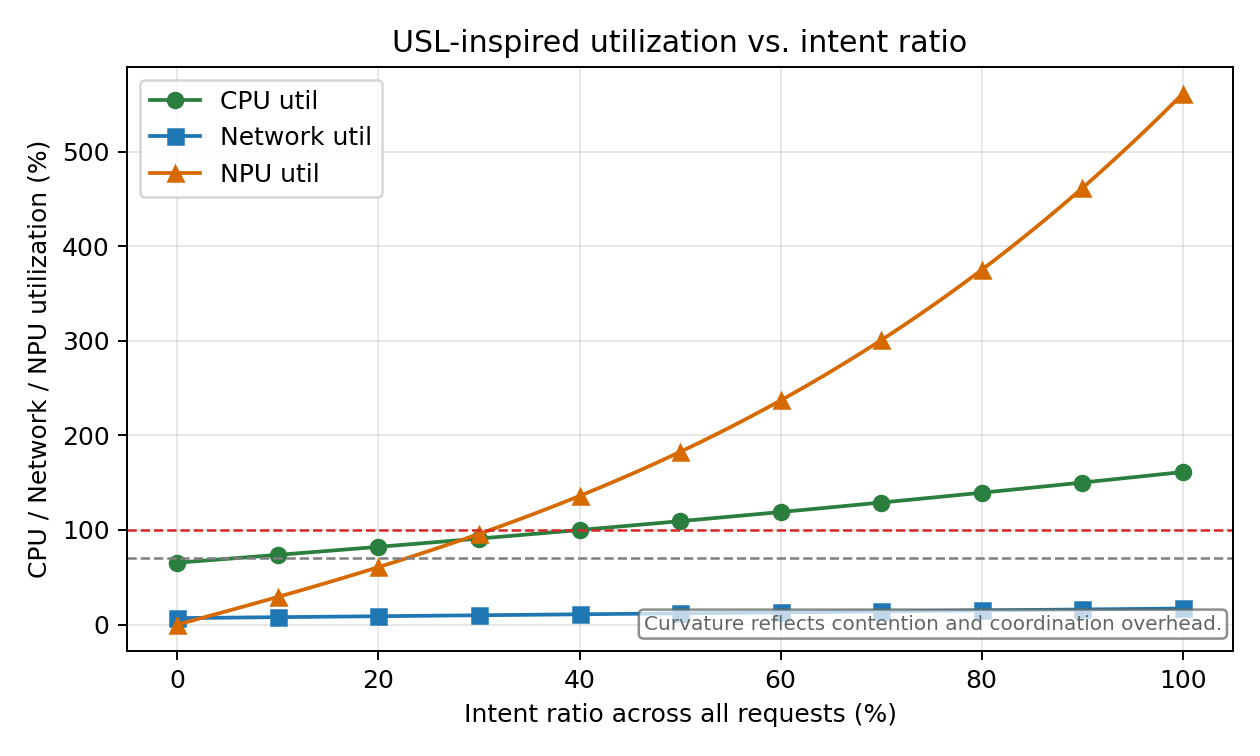
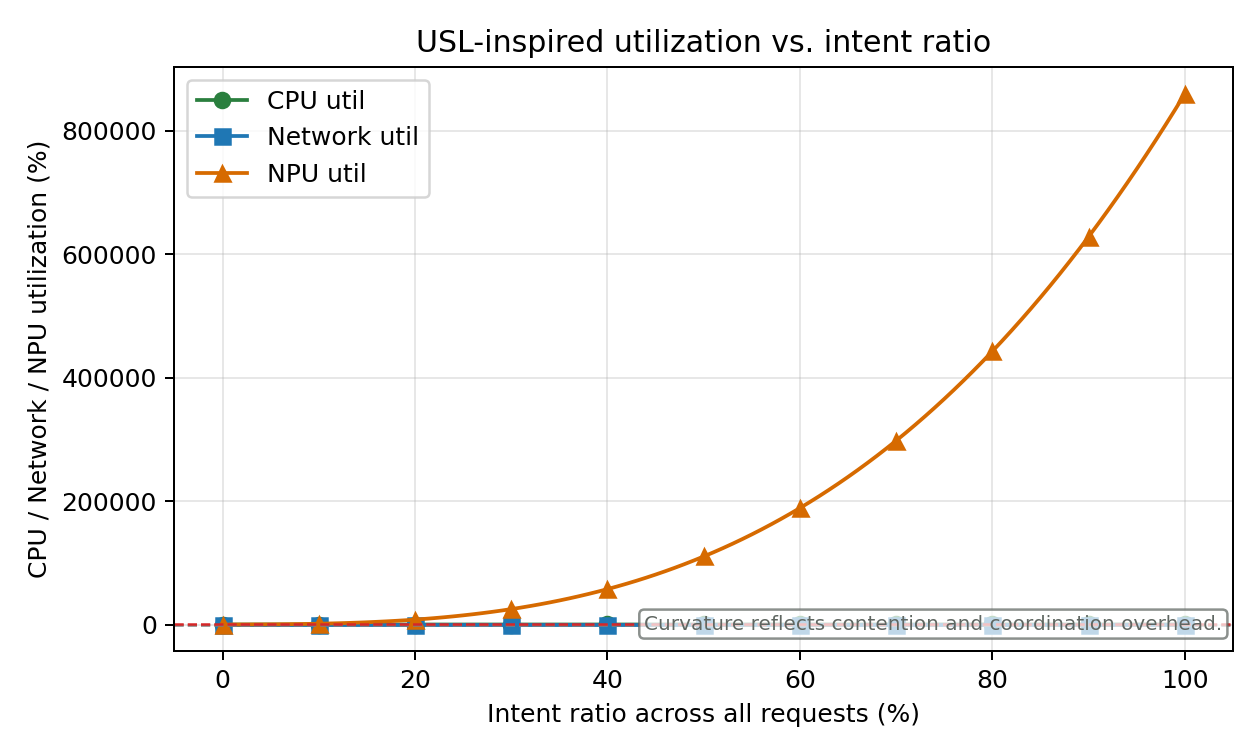
Use Medium Prompt Qwen3 benchmark defaults

diff --git a/webapp/dist/i18n.js b/webapp/dist/i18n.js
@@ -7,7 +7,7 @@ export const I18N = {
         eventRates: "Event Rates",
         cluster: "Cluster",
         referenceProfile: "Reference profile",
-        qwen3SourceNote: "Source: GPUStack reports 15,040 total tokens/s for Qwen3-30B-A3B short-prompt serving on Ascend 910B; vLLM-Ascend recommends TP >= 4 for 32 GB NPU cards.",
+        qwen3SourceNote: "Source: GPUStack reports 15,591.71 total tokens/s for Qwen3-30B-A3B Medium Prompt serving on Ascend 910B, with Mean TPOT 194.54 ms; vLLM-Ascend recommends TP >= 4 for 32 GB NPU cards.",
         sourceLink: "GPUStack benchmark",
         vllmSourceLink: "vLLM-Ascend docs",
         agentCost: "Agent Cost",
@@ -87,9 +87,9 @@ export const I18N = {
         qwen3NpuCountTip: "Configured NPUs available for Qwen3 serving. Utilization is calculated against this fixed cluster size.",
         loadBandNote: "Nonlinear overhead uses a USL-inspired curve: effective load = raw load x (1 + 0.05 x raw load + 0.10 x raw load squared).",
         qwen3InvocationRatioTip: "Percentage of intent requests that need Qwen3-30B-A3B. The rest use lightweight intent parsing and tool selection.",
-        qwen3InputTokensTip: "Input tokens per complex intent request. The benchmark-derived default is 128.",
-        qwen3OutputTokensTip: "Output tokens per complex intent request. The benchmark-derived default is 4.",
-        qwen3TokenCapacityTip: "Reference Qwen3 serving capacity. GPUStack reports 15,040 total tokens/s for the optimized short-prompt Ascend 910B benchmark.",
+        qwen3InputTokensTip: "Input tokens per complex intent request. The GPUStack Medium Prompt benchmark default is 2,000.",
+        qwen3OutputTokensTip: "Output tokens per complex intent request. The GPUStack Medium Prompt benchmark default is 100.",
+        qwen3TokenCapacityTip: "Reference Qwen3 serving capacity. GPUStack reports 15,591.71 total tokens/s for the optimized Medium Prompt Ascend 910B benchmark.",
         qwen3TensorParallelTip: "NPUs required for one Qwen3 replica. vLLM-Ascend recommends TP >= 4 for 32 GB NPU cards.",
         nonIntentCpuCostTip: "CPU-ms means one CPU core occupied for one millisecond. 0.3 CPU-ms is 0.3 ms on one core, or equivalent parallel CPU work.",
         intentCpuCostTip: "CPU-side agent work for intent parsing, constraints, planning, and tool-wrapper handling outside Qwen3 inference.",
@@ -122,7 +122,7 @@ export const I18N = {
         eventRates: "事件速率",
         cluster: "集群",
         referenceProfile: "参考配置",
-        qwen3SourceNote: "来源：GPUStack 报告 Qwen3-30B-A3B 在 Ascend 910B 短提示服务下达到 15,040 total tokens/s；vLLM-Ascend 建议 32 GB NPU 卡使用 TP >= 4。",
+        qwen3SourceNote: "来源：GPUStack 报告 Qwen3-30B-A3B 在 Ascend 910B Medium Prompt 服务下达到 15,591.71 total tokens/s，Mean TPOT 为 194.54 ms；vLLM-Ascend 建议 32 GB NPU 卡使用 TP >= 4。",
         sourceLink: "GPUStack 基准",
         vllmSourceLink: "vLLM-Ascend 文档",
         agentCost: "Agent 成本",
@@ -202,9 +202,9 @@ export const I18N = {
         qwen3NpuCountTip: "可用于 Qwen3 服务的 NPU 数量。利用率基于该固定集群规模计算。",
         loadBandNote: "非线性开销采用基于 USL 的曲线：有效负载 = 原始负载 x (1 + 0.05 x 原始负载 + 0.10 x 原始负载平方)。",
         qwen3InvocationRatioTip: "需要调用 Qwen3-30B-A3B 的意图请求比例。其他意图请求使用轻量意图解析和工具选择。",
-        qwen3InputTokensTip: "每个复杂意图请求的输入 token 数。基准默认值为 128。",
-        qwen3OutputTokensTip: "每个复杂意图请求的输出 token 数。基准默认值为 4。",
-        qwen3TokenCapacityTip: "参考 Qwen3 服务能力。GPUStack 在优化后的 Ascend 910B 短提示基准中报告 15,040 total tokens/s。",
+        qwen3InputTokensTip: "每个复杂意图请求的输入 token 数。GPUStack Medium Prompt 基准默认值为 2,000。",
+        qwen3OutputTokensTip: "每个复杂意图请求的输出 token 数。GPUStack Medium Prompt 基准默认值为 100。",
+        qwen3TokenCapacityTip: "参考 Qwen3 服务能力。GPUStack 在优化后的 Ascend 910B Medium Prompt 基准中报告 15,591.71 total tokens/s。",
         qwen3TensorParallelTip: "一个 Qwen3 副本需要的 NPU 数。vLLM-Ascend 建议 32 GB NPU 卡使用 TP >= 4。",
         nonIntentCpuCostTip: "CPU-ms 表示一个 CPU 核占用一毫秒。0.3 CPU-ms 等价于单核 0.3 ms 的计算量。",
         intentCpuCostTip: "意图解析、约束检查、规划和工具封装等 Qwen3 推理之外的 CPU 侧 Agent 工作量。",

diff --git a/webapp/src/i18n.ts b/webapp/src/i18n.ts
@@ -9,7 +9,7 @@ export const I18N: Record<Lang, Record<string, string>> = {
     eventRates: "Event Rates",
     cluster: "Cluster",
     referenceProfile: "Reference profile",
-    qwen3SourceNote: "Source: GPUStack reports 15,040 total tokens/s for Qwen3-30B-A3B short-prompt serving on Ascend 910B; vLLM-Ascend recommends TP >= 4 for 32 GB NPU cards.",
+    qwen3SourceNote: "Source: GPUStack reports 15,591.71 total tokens/s for Qwen3-30B-A3B Medium Prompt serving on Ascend 910B, with Mean TPOT 194.54 ms; vLLM-Ascend recommends TP >= 4 for 32 GB NPU cards.",
     sourceLink: "GPUStack benchmark",
     vllmSourceLink: "vLLM-Ascend docs",
     agentCost: "Agent Cost",
@@ -89,9 +89,9 @@ export const I18N: Record<Lang, Record<string, string>> = {
     qwen3NpuCountTip: "Configured NPUs available for Qwen3 serving. Utilization is calculated against this fixed cluster size.",
     loadBandNote: "Nonlinear overhead uses a USL-inspired curve: effective load = raw load x (1 + 0.05 x raw load + 0.10 x raw load squared).",
     qwen3InvocationRatioTip: "Percentage of intent requests that need Qwen3-30B-A3B. The rest use lightweight intent parsing and tool selection.",
-    qwen3InputTokensTip: "Input tokens per complex intent request. The benchmark-derived default is 128.",
-    qwen3OutputTokensTip: "Output tokens per complex intent request. The benchmark-derived default is 4.",
-    qwen3TokenCapacityTip: "Reference Qwen3 serving capacity. GPUStack reports 15,040 total tokens/s for the optimized short-prompt Ascend 910B benchmark.",
+    qwen3InputTokensTip: "Input tokens per complex intent request. The GPUStack Medium Prompt benchmark default is 2,000.",
+    qwen3OutputTokensTip: "Output tokens per complex intent request. The GPUStack Medium Prompt benchmark default is 100.",
+    qwen3TokenCapacityTip: "Reference Qwen3 serving capacity. GPUStack reports 15,591.71 total tokens/s for the optimized Medium Prompt Ascend 910B benchmark.",
     qwen3TensorParallelTip: "NPUs required for one Qwen3 replica. vLLM-Ascend recommends TP >= 4 for 32 GB NPU cards.",
     nonIntentCpuCostTip: "CPU-ms means one CPU core occupied for one millisecond. 0.3 CPU-ms is 0.3 ms on one core, or equivalent parallel CPU work.",
     intentCpuCostTip: "CPU-side agent work for intent parsing, constraints, planning, and tool-wrapper handling outside Qwen3 inference.",
@@ -124,7 +124,7 @@ export const I18N: Record<Lang, Record<string, string>> = {
     eventRates: "事件速率",
     cluster: "集群",
     referenceProfile: "参考配置",
-    qwen3SourceNote: "来源：GPUStack 报告 Qwen3-30B-A3B 在 Ascend 910B 短提示服务下达到 15,040 total tokens/s；vLLM-Ascend 建议 32 GB NPU 卡使用 TP >= 4。",
+    qwen3SourceNote: "来源：GPUStack 报告 Qwen3-30B-A3B 在 Ascend 910B Medium Prompt 服务下达到 15,591.71 total tokens/s，Mean TPOT 为 194.54 ms；vLLM-Ascend 建议 32 GB NPU 卡使用 TP >= 4。",
     sourceLink: "GPUStack 基准",
     vllmSourceLink: "vLLM-Ascend 文档",
     agentCost: "Agent 成本",
@@ -204,9 +204,9 @@ export const I18N: Record<Lang, Record<string, string>> = {
     qwen3NpuCountTip: "可用于 Qwen3 服务的 NPU 数量。利用率基于该固定集群规模计算。",
     loadBandNote: "非线性开销采用基于 USL 的曲线：有效负载 = 原始负载 x (1 + 0.05 x 原始负载 + 0.10 x 原始负载平方)。",
     qwen3InvocationRatioTip: "需要调用 Qwen3-30B-A3B 的意图请求比例。其他意图请求使用轻量意图解析和工具选择。",
-    qwen3InputTokensTip: "每个复杂意图请求的输入 token 数。基准默认值为 128。",
-    qwen3OutputTokensTip: "每个复杂意图请求的输出 token 数。基准默认值为 4。",
-    qwen3TokenCapacityTip: "参考 Qwen3 服务能力。GPUStack 在优化后的 Ascend 910B 短提示基准中报告 15,040 total tokens/s。",
+    qwen3InputTokensTip: "每个复杂意图请求的输入 token 数。GPUStack Medium Prompt 基准默认值为 2,000。",
+    qwen3OutputTokensTip: "每个复杂意图请求的输出 token 数。GPUStack Medium Prompt 基准默认值为 100。",
+    qwen3TokenCapacityTip: "参考 Qwen3 服务能力。GPUStack 在优化后的 Ascend 910B Medium Prompt 基准中报告 15,591.71 total tokens/s。",
     qwen3TensorParallelTip: "一个 Qwen3 副本需要的 NPU 数。vLLM-Ascend 建议 32 GB NPU 卡使用 TP >= 4。",
     nonIntentCpuCostTip: "CPU-ms 表示一个 CPU 核占用一毫秒。0.3 CPU-ms 等价于单核 0.3 ms 的计算量。",
     intentCpuCostTip: "意图解析、约束检查、规划和工具封装等 Qwen3 推理之外的 CPU 侧 Agent 工作量。",

diff --git a/webapp/index.html b/webapp/index.html
@@ -127,7 +127,7 @@
             <small>vLLM Ascend 0.11.0 · Qwen3-30B-A3B</small>
           </div>
           <p class="source-note">
-            <span data-i18n="qwen3SourceNote">Source: GPUStack reports 15,040 total tokens/s for Qwen3-30B-A3B short-prompt serving on Ascend 910B; vLLM-Ascend recommends TP >= 4 for 32 GB NPU cards.</span>
+            <span data-i18n="qwen3SourceNote">Source: GPUStack reports 15,591.71 total tokens/s for Qwen3-30B-A3B medium-prompt serving on Ascend 910B, with Mean TPOT 194.54 ms; vLLM-Ascend recommends TP >= 4 for 32 GB NPU cards.</span>
             <a href="https://docs.gpustack.ai/2.0/performance-lab/qwen3-30b-a3b/910b/" data-i18n="sourceLink">GPUStack benchmark</a>
             <a href="https://docs.vllm.ai/projects/ascend/en/v0.18.0/" data-i18n="vllmSourceLink">vLLM-Ascend docs</a>
           </p>
@@ -158,16 +158,16 @@
               <input id="qwen3InvocationRatio" type="number" min="0" max="100" step="1" value="10">
             </label>
             <label class="field compact">
-              <span class="label-line"><span data-i18n="qwen3InputTokens">Qwen3 input tokens</span> <span class="unit">(tokens/request)</span><span class="help" data-tip-key="qwen3InputTokensTip" data-tip="Input tokens per complex intent request. The benchmark-derived default is 128.">?</span></span>
-              <input id="qwen3InputTokens" type="number" min="1" step="1" value="128">
+              <span class="label-line"><span data-i18n="qwen3InputTokens">Qwen3 input tokens</span> <span class="unit">(tokens/request)</span><span class="help" data-tip-key="qwen3InputTokensTip" data-tip="Input tokens per complex intent request. The benchmark-derived Medium Prompt default is 2000.">?</span></span>
+              <input id="qwen3InputTokens" type="number" min="1" step="1" value="2000">
             </label>
             <label class="field compact">
-              <span class="label-line"><span data-i18n="qwen3OutputTokens">Qwen3 output tokens</span> <span class="unit">(tokens/request)</span><span class="help" data-tip-key="qwen3OutputTokensTip" data-tip="Output tokens per complex intent request. The benchmark-derived default is 4.">?</span></span>
-              <input id="qwen3OutputTokens" type="number" min="1" step="1" value="4">
+              <span class="label-line"><span data-i18n="qwen3OutputTokens">Qwen3 output tokens</span> <span class="unit">(tokens/request)</span><span class="help" data-tip-key="qwen3OutputTokensTip" data-tip="Output tokens per complex intent request. The benchmark-derived Medium Prompt default is 100.">?</span></span>
+              <input id="qwen3OutputTokens" type="number" min="1" step="1" value="100">
             </label>
             <label class="field compact">
-              <span class="label-line"><span data-i18n="qwen3TokenCapacity">Qwen3 capacity</span> <span class="unit">(tokens/s/replica)</span><span class="help" data-tip-key="qwen3TokenCapacityTip" data-tip="Reference Qwen3 serving capacity. GPUStack reports 15,040 total tokens/s for the optimized short-prompt Ascend 910B benchmark.">?</span></span>
-              <input id="qwen3TokenCapacity" type="number" min="1" step="100" value="15040">
+              <span class="label-line"><span data-i18n="qwen3TokenCapacity">Qwen3 capacity</span> <span class="unit">(tokens/s/replica)</span><span class="help" data-tip-key="qwen3TokenCapacityTip" data-tip="Reference Qwen3 serving capacity. GPUStack reports 15,591.71 total tokens/s for the optimized Medium Prompt Ascend 910B benchmark.">?</span></span>
+              <input id="qwen3TokenCapacity" type="number" min="1" step="0.01" value="15591.71">
             </label>
             <label class="field compact">
               <span class="label-line"><span data-i18n="qwen3TensorParallel">Qwen3 tensor parallel</span> <span class="unit">(NPUs/replica)</span><span class="help" data-tip-key="qwen3TensorParallelTip" data-tip="NPUs required for one Qwen3 replica. vLLM-Ascend recommends TP >= 4 for 32 GB NPU cards.">?</span></span>

diff --git a/webapp/dist/config.js b/webapp/dist/config.js
@@ -8,9 +8,9 @@ export const BASELINE = {
     qwen3NpuCount: 128,
     npuHbmPerNpuGb: 32,
     qwen3InvocationRatio: 10,
-    qwen3InputTokens: 128,
-    qwen3OutputTokens: 4,
-    qwen3TokenCapacity: 15040,
+    qwen3InputTokens: 2000,
+    qwen3OutputTokens: 100,
+    qwen3TokenCapacity: 15591.71,
     qwen3TensorParallel: 4,
     nonIntentCpu: 0.3,
     intentCpu: 2.0,

diff --git a/webapp/src/config.ts b/webapp/src/config.ts
@@ -10,9 +10,9 @@ export const BASELINE: Baseline = {
   qwen3NpuCount: 128,
   npuHbmPerNpuGb: 32,
   qwen3InvocationRatio: 10,
-  qwen3InputTokens: 128,
-  qwen3OutputTokens: 4,
-  qwen3TokenCapacity: 15040,
+  qwen3InputTokens: 2000,
+  qwen3OutputTokens: 100,
+  qwen3TokenCapacity: 15591.71,
   qwen3TensorParallel: 4,
   nonIntentCpu: 0.3,
   intentCpu: 2.0,

diff --git a/scripts/agentic_model_config.py b/scripts/agentic_model_config.py
@@ -35,9 +35,9 @@ class ModelConfig:
     intent_agent_bandwidth_kb: float = 12.0
     intent_mem_traffic_kb: float = 512.0
     qwen3_invocation_ratio: float = 0.10
-    qwen3_input_tokens_per_request: float = 128.0
-    qwen3_output_tokens_per_request: float = 4.0
-    qwen3_token_capacity_per_replica: float = 15_040.0
+    qwen3_input_tokens_per_request: float = 2_000.0
+    qwen3_output_tokens_per_request: float = 100.0
+    qwen3_token_capacity_per_replica: float = 15_591.71
     qwen3_tensor_parallel_size: float = 4.0
     qwen3_request_hbm_mb_per_rps: float = 0.032
     request_state_ram_kb_per_rps: float = 128.0
@@ -71,4 +71,4 @@ SENSITIVITY_USERS = [
 ]
 USER_COUNT_PLOT_INTENT_RATIO = 0.20
 QWEN3_INVOCATION_SETTINGS = [0.05, 0.10, 0.20, 0.50, 1.00]
-QWEN3_TOKEN_CAPACITY_SETTINGS = [4_712.0, 5_340.0, 15_040.0]
+QWEN3_TOKEN_CAPACITY_SETTINGS = [4_712.0, 5_340.0, 15_591.71]

diff --git a/agentic_core_resource_model.md b/agentic_core_resource_model.md
@@ -54,8 +54,8 @@ The baseline uses $N_{\mathrm{user}}=3.6\times10^6$ users and $2$ PDU sessions/u
 | Intent inference model                   |                                           Qwen3-30B-A3B |
 | Configured NPU cluster for Qwen3 serving |                                                128 NPUs |
 | Qwen3 invocation ratio                   |                                  10% of intent requests |
-| Qwen3 token profile                      | 128 input tokens + 4 output tokens = 132 tokens/request |
-| Qwen3 token capacity                     |                                 15,040 tokens/s/replica |
+| Qwen3 token profile                      | 2,000 input tokens + 100 output tokens = 2,100 tokens/request |
+| Qwen3 token capacity                     |                              15,591.71 tokens/s/replica |
 | Qwen3 tensor parallel size               |                                          4 NPUs/replica |
 | Network capacity                         |                                                100 Gbps |
 | Nonlinear overhead model                 |          USL-inspired contention and coordination curve |
@@ -67,7 +67,7 @@ $CPU\text{-}ms$ means one CPU core occupied for one millisecond. For example, $2
 
 ## 1.3 Qwen3 Capacity Reference
 
-[GPUStack's Qwen3-30B-A3B on Ascend 910B benchmark](https://docs.gpustack.ai/2.0/performance-lab/qwen3-30b-a3b/910b/) reports `15,040.15 total tokens/s` for `128 input tokens` and `4 output tokens`. The [vLLM-Ascend documentation](https://docs.vllm.ai/projects/ascend/en/v0.18.0/) includes Qwen3-30B-A3B guidance; for 32 GB NPU cards, the model uses tensor parallel size $TP_Q=4$.
+[GPUStack's Qwen3-30B-A3B on Ascend 910B benchmark](https://docs.gpustack.ai/2.0/performance-lab/qwen3-30b-a3b/910b/) reports `15,591.71 total tokens/s` for the optimized Medium Prompt case with `2,000 input tokens` and `100 output tokens`. The same benchmark reports `Mean TPOT = 194.54 ms`; this value is cited as benchmark context only and is not used in the model formulas because this document estimates resource capacity. The [vLLM-Ascend documentation](https://docs.vllm.ai/projects/ascend/en/v0.18.0/) includes Qwen3-30B-A3B guidance; for 32 GB NPU cards, the model uses tensor parallel size $TP_Q=4$.
 
 The intent request rate is the total request rate multiplied by the intent ratio.
 
@@ -280,17 +280,17 @@ The table fixes the user population, event frequencies, and Qwen3 cluster size, 
 
 | Intent ratio | Total intent share | Intent rps | Qwen3 rps | Effective Qwen3 tokens/s | CPU cores | CPU util | Memory traffic | NPU util | Network bandwidth | Status    |
 | -----------: | -----------------: | ---------: | --------: | -----------------------: | --------: | -------: | -------------: | -------: | ----------------: | --------- |
-|           0% |               0.0% |          0 |         0 |                        0 |     167.5 |    65.4% |    53.402 Gbps |     0.0% |        6.805 Gbps | stable    |
-|          10% |              10.0% |     10,430 |     1,043 |                  140,772 |     188.6 |    73.7% |    90.783 Gbps |    29.2% |        7.815 Gbps | degraded  |
-|          20% |              20.0% |     20,860 |     2,086 |                  292,242 |     210.4 |    82.2% |   128.164 Gbps |    60.7% |        8.827 Gbps | degraded  |
-|          30% |              30.0% |     31,290 |     3,129 |                  461,170 |     232.8 |    90.9% |   165.545 Gbps |    95.8% |        9.840 Gbps | high_risk |
-|          40% |              40.0% |     41,720 |     4,172 |                  654,315 |     255.9 |   100.0% |   202.926 Gbps |   136.0% |       10.855 Gbps | unstable  |
-|          50% |              50.0% |     52,150 |     5,215 |                  878,438 |     279.8 |   109.3% |   240.307 Gbps |   182.5% |       11.871 Gbps | unstable  |
-|          60% |              60.0% |     62,580 |     6,258 |                1,140,298 |     304.6 |   119.0% |   277.688 Gbps |   236.9% |       12.890 Gbps | unstable  |
-|          70% |              70.0% |     73,010 |     7,301 |                1,446,655 |     330.2 |   129.0% |   315.069 Gbps |   300.6% |       13.909 Gbps | unstable  |
-|          80% |              80.0% |     83,440 |     8,344 |                1,804,268 |     356.7 |   139.4% |   352.451 Gbps |   374.9% |       14.931 Gbps | unstable  |
-|          90% |              90.0% |     93,870 |     9,387 |                2,219,898 |     384.3 |   150.1% |   389.832 Gbps |   461.2% |       15.955 Gbps | unstable  |
-|         100% |             100.0% |    104,300 |    10,430 |                2,700,304 |     412.9 |   161.3% |   427.213 Gbps |   561.1% |       16.980 Gbps | unstable  |
+|           0% |               0.0% |          0 |         0 |                        0 |     167.5 |    65.4% |    53.402 Gbps |      0.0% |        6.805 Gbps | stable    |
+|          10% |              10.0% |     10,430 |     1,043 |                6,892,144 |     188.6 |    73.7% |    90.783 Gbps |  1,381.4% |        7.815 Gbps | unstable  |
+|          20% |              20.0% |     20,860 |     2,086 |               40,072,285 |     210.4 |    82.2% |   128.164 Gbps |  8,031.6% |        8.827 Gbps | unstable  |
+|          30% |              30.0% |     31,290 |     3,129 |              124,866,892 |     232.8 |    90.9% |   165.545 Gbps | 25,026.7% |        9.840 Gbps | unstable  |
+|          40% |              40.0% |     41,720 |     4,172 |              286,602,430 |     255.9 |   100.0% |   202.926 Gbps | 57,442.9% |       10.855 Gbps | unstable  |
+|          50% |              50.0% |     52,150 |     5,215 |              550,605,367 |     279.8 |   109.3% |   240.307 Gbps | 110,356.2% |       11.871 Gbps | unstable  |
+|          60% |              60.0% |     62,580 |     6,258 |              942,202,168 |     304.6 |   119.0% |   277.688 Gbps | 188,842.8% |       12.890 Gbps | unstable  |
+|          70% |              70.0% |     73,010 |     7,301 |            1,486,719,302 |     330.2 |   129.0% |   315.069 Gbps | 297,978.7% |       13.909 Gbps | unstable  |
+|          80% |              80.0% |     83,440 |     8,344 |            2,209,483,234 |     356.7 |   139.4% |   352.451 Gbps | 442,840.1% |       14.931 Gbps | unstable  |
+|          90% |              90.0% |     93,870 |     9,387 |            3,135,820,432 |     384.3 |   150.1% |   389.832 Gbps | 628,503.2% |       15.955 Gbps | unstable  |
+|         100% |             100.0% |    104,300 |    10,430 |            4,291,057,362 |     412.9 |   161.3% |   427.213 Gbps | 860,043.8% |       16.980 Gbps | unstable  |
 
 Generated results are available in `outputs/agentic_resource_results.csv`. The user-count sensitivity sweep is available in `outputs/agentic_resource_sensitivity.csv`. The Qwen3 sensitivity sweep is available in `outputs/agentic_qwen3_sizing_sensitivity.csv`.
 
@@ -302,7 +302,7 @@ The following user-count sensitivity figure fixes the intent ratio at $20\%$ and
 
 ## 1.7 Interpretation
 
-With $128$ configured NPUs assigned to Qwen3 serving and $10\%$ Qwen3 invocation ratio, NPU utilization is $29.2\%$ at $10\%$ intent ratio, $60.7\%$ at $20\%$ intent ratio, and $95.8\%$ at $30\%$ intent ratio. At $40\%$ intent ratio, NPU utilization exceeds $100\%$, so the fixed NPU cluster is overloaded. Higher intent ratios require more NPU capacity, lower Qwen3 invocation ratio, shorter token profiles, faster serving, or admission control.
+With $128$ configured NPUs assigned to Qwen3 serving and $10\%$ Qwen3 invocation ratio, the Medium Prompt token profile is a conservative stress case. NPU utilization is already $1,381.4\%$ at $10\%$ intent ratio and $8,031.6\%$ at $20\%$ intent ratio, so the fixed NPU cluster is overloaded whenever a meaningful share of intent traffic invokes Qwen3 with this prompt size. Stable operation under this workload requires more NPU capacity, lower Qwen3 invocation ratio, shorter token profiles, faster serving, admission control, or routing most intent requests to lightweight non-LLM handling.
 
 ## 1.8 Model Boundary
 
@@ -321,6 +321,6 @@ The numerical values are analytical input parameters for capacity and sensitivit
 5. [Online Scheduling for LLM Inference with KV Cache Constraints](https://www.microsoft.com/en-us/research/publication/online-scheduling-for-llm-inference-with-kv-cache-constraints/) and [arXiv:2502.07115](https://arxiv.org/abs/2502.07115).
    This work treats KV-cache capacity as a scheduling constraint for LLM inference. It supports the view that utilization and memory pressure are coupled under concurrency, so NPU serving demand should not be modeled only as raw tokens divided by peak token capacity.
 6. [GPUStack Qwen3-30B-A3B on Ascend 910B benchmark](https://docs.gpustack.ai/2.0/performance-lab/qwen3-30b-a3b/910b/).
-   This benchmark provides the reference token capacity used in the model: `15,040.15 total tokens/s` for Qwen3-30B-A3B with `128 input tokens` and `4 output tokens`.
+   This benchmark provides the reference token capacity used in the model: the optimized Medium Prompt case reports `15,591.71 total tokens/s` and `Mean TPOT = 194.54 ms` for Qwen3-30B-A3B with `2,000 input tokens` and `100 output tokens`. The TPOT value is cited as benchmark context only and does not enter the resource formulas.
 7. [vLLM Ascend documentation](https://docs.vllm.ai/projects/ascend/en/v0.18.0/).
    This documentation provides implementation context for serving Qwen3-family models on Ascend through vLLM Ascend. It supports the tensor-parallel serving assumptions used for the configured NPU cluster.

diff --git a/agentic_core_resource_model_zh.md b/agentic_core_resource_model_zh.md
@@ -52,8 +52,8 @@ $$
 | 意图推理模型 | Qwen3-30B-A3B |
 | 用于 Qwen3 服务的 NPU 集群 | 128 NPUs |
 | Qwen3 调用比例 | 意图请求的 10% |
-| Qwen3 token 配置 | 128 input tokens + 4 output tokens = 132 tokens/request |
-| Qwen3 token 能力 | 15,040 tokens/s/replica |
+| Qwen3 token 配置 | 2,000 input tokens + 100 output tokens = 2,100 tokens/request |
+| Qwen3 token 能力 | 15,591.71 tokens/s/replica |
 | Qwen3 张量并行规模 | 4 NPUs/replica |
 | 网络容量 | 100 Gbps |
 | 非线性开销模型 | 基于 USL 的竞争与协调开销曲线 |
@@ -65,7 +65,7 @@ $CPU\text{-}ms$ 表示一个 CPU 核被占用一毫秒。例如， $2\ CPU\text{
 
 ## 1.3 Qwen3 能力参考
 
-[GPUStack 的 Qwen3-30B-A3B on Ascend 910B 基准](https://docs.gpustack.ai/2.0/performance-lab/qwen3-30b-a3b/910b/) 报告，在 `128 input tokens` 和 `4 output tokens` 配置下结果为 `15,040.15 total tokens/s`。[vLLM-Ascend 文档](https://docs.vllm.ai/projects/ascend/en/v0.18.0/) 包含 Qwen3-30B-A3B 指引；对于 32 GB NPU 卡，模型采用 tensor parallel size $TP_Q=4$ 。
+[GPUStack 的 Qwen3-30B-A3B on Ascend 910B 基准](https://docs.gpustack.ai/2.0/performance-lab/qwen3-30b-a3b/910b/) 报告，优化后的 Medium Prompt 场景在 `2,000 input tokens` 和 `100 output tokens` 配置下达到 `15,591.71 total tokens/s`。同一基准报告 `Mean TPOT = 194.54 ms`；该数值仅作为基准背景引用，不进入本文模型公式，因为本文估算的是资源容量。[vLLM-Ascend 文档](https://docs.vllm.ai/projects/ascend/en/v0.18.0/) 包含 Qwen3-30B-A3B 指引；对于 32 GB NPU 卡，模型采用 tensor parallel size $TP_Q=4$ 。
 
 意图请求速率等于总请求速率乘以意图比例。
 
@@ -278,16 +278,16 @@ $$
 | 意图比例 | 总意图占比 | 意图 rps | Qwen3 rps | 有效 Qwen3 tokens/s | CPU 核 | CPU 利用率 | 内存流量 | NPU 利用率 | 网络带宽 | 状态 |
 | ---: | ---: | ---: | ---: | ---: | ---: | ---: | ---: | ---: | ---: | --- |
 | 0% | 0.0% | 0 | 0 | 0 | 167.5 | 65.4% | 53.402 Gbps | 0.0% | 6.805 Gbps | 稳定 |
-| 10% | 10.0% | 10,430 | 1,043 | 140,772 | 188.6 | 73.7% | 90.783 Gbps | 29.2% | 7.815 Gbps | 退化 |
-| 20% | 20.0% | 20,860 | 2,086 | 292,242 | 210.4 | 82.2% | 128.164 Gbps | 60.7% | 8.827 Gbps | 退化 |
-| 30% | 30.0% | 31,290 | 3,129 | 461,170 | 232.8 | 90.9% | 165.545 Gbps | 95.8% | 9.840 Gbps | 高风险 |
-| 40% | 40.0% | 41,720 | 4,172 | 654,315 | 255.9 | 100.0% | 202.926 Gbps | 136.0% | 10.855 Gbps | 不稳定 |
-| 50% | 50.0% | 52,150 | 5,215 | 878,438 | 279.8 | 109.3% | 240.307 Gbps | 182.5% | 11.871 Gbps | 不稳定 |
-| 60% | 60.0% | 62,580 | 6,258 | 1,140,298 | 304.6 | 119.0% | 277.688 Gbps | 236.9% | 12.890 Gbps | 不稳定 |
-| 70% | 70.0% | 73,010 | 7,301 | 1,446,655 | 330.2 | 129.0% | 315.069 Gbps | 300.6% | 13.909 Gbps | 不稳定 |
-| 80% | 80.0% | 83,440 | 8,344 | 1,804,268 | 356.7 | 139.4% | 352.451 Gbps | 374.9% | 14.931 Gbps | 不稳定 |
-| 90% | 90.0% | 93,870 | 9,387 | 2,219,898 | 384.3 | 150.1% | 389.832 Gbps | 461.2% | 15.955 Gbps | 不稳定 |
-| 100% | 100.0% | 104,300 | 10,430 | 2,700,304 | 412.9 | 161.3% | 427.213 Gbps | 561.1% | 16.980 Gbps | 不稳定 |
+| 10% | 10.0% | 10,430 | 1,043 | 6,892,144 | 188.6 | 73.7% | 90.783 Gbps | 1,381.4% | 7.815 Gbps | 不稳定 |
+| 20% | 20.0% | 20,860 | 2,086 | 40,072,285 | 210.4 | 82.2% | 128.164 Gbps | 8,031.6% | 8.827 Gbps | 不稳定 |
+| 30% | 30.0% | 31,290 | 3,129 | 124,866,892 | 232.8 | 90.9% | 165.545 Gbps | 25,026.7% | 9.840 Gbps | 不稳定 |
+| 40% | 40.0% | 41,720 | 4,172 | 286,602,430 | 255.9 | 100.0% | 202.926 Gbps | 57,442.9% | 10.855 Gbps | 不稳定 |
+| 50% | 50.0% | 52,150 | 5,215 | 550,605,367 | 279.8 | 109.3% | 240.307 Gbps | 110,356.2% | 11.871 Gbps | 不稳定 |
+| 60% | 60.0% | 62,580 | 6,258 | 942,202,168 | 304.6 | 119.0% | 277.688 Gbps | 188,842.8% | 12.890 Gbps | 不稳定 |
+| 70% | 70.0% | 73,010 | 7,301 | 1,486,719,302 | 330.2 | 129.0% | 315.069 Gbps | 297,978.7% | 13.909 Gbps | 不稳定 |
+| 80% | 80.0% | 83,440 | 8,344 | 2,209,483,234 | 356.7 | 139.4% | 352.451 Gbps | 442,840.1% | 14.931 Gbps | 不稳定 |
+| 90% | 90.0% | 93,870 | 9,387 | 3,135,820,432 | 384.3 | 150.1% | 389.832 Gbps | 628,503.2% | 15.955 Gbps | 不稳定 |
+| 100% | 100.0% | 104,300 | 10,430 | 4,291,057,362 | 412.9 | 161.3% | 427.213 Gbps | 860,043.8% | 16.980 Gbps | 不稳定 |
 
 生成结果位于 `outputs/agentic_resource_results.csv`。用户规模敏感性扫描位于 `outputs/agentic_resource_sensitivity.csv`。Qwen3 敏感性扫描位于 `outputs/agentic_qwen3_sizing_sensitivity.csv`。
 
@@ -299,7 +299,7 @@ $$
 
 ## 1.7 结果解读
 
-在配置 $128$ 张 NPU 用于 Qwen3 服务且 Qwen3 调用比例为 $10\%$ 的情况下，NPU 利用率在 $10\%$ 意图比例时为 $29.2\%$ ，在 $20\%$ 意图比例时为 $60.7\%$ ，在 $30\%$ 意图比例时为 $95.8\%$ 。当意图比例达到 $40\%$ 时，NPU 利用率超过 $100\%$ ，表示固定 NPU 集群已经过载。更高意图比例需要增加 NPU 容量、降低 Qwen3 调用比例、缩短 token 配置、提升服务吞吐或引入准入控制。
+在配置 $128$ 张 NPU 用于 Qwen3 服务且 Qwen3 调用比例为 $10\%$ 的情况下，Medium Prompt token 配置是一个保守压力场景。NPU 利用率在 $10\%$ 意图比例时已经达到 $1,381.4\%$ ，在 $20\%$ 意图比例时达到 $8,031.6\%$ ，因此只要有显著比例的意图流量以该 prompt 大小调用 Qwen3，固定 NPU 集群就会过载。要在该负载下稳定运行，需要增加 NPU 容量、降低 Qwen3 调用比例、缩短 token 配置、提升服务吞吐、引入准入控制，或将大部分意图请求路由到轻量级非 LLM 处理路径。
 
 ## 1.8 模型边界
 
@@ -323,7 +323,7 @@ $$
    该工作将 KV-cache 容量作为 LLM 推理调度约束，说明并发场景下利用率和内存压力是耦合的。因此，NPU 服务需求不应只用原始 tokens 除以峰值 token 能力来表示。
 
 6. [GPUStack Qwen3-30B-A3B on Ascend 910B benchmark](https://docs.gpustack.ai/2.0/performance-lab/qwen3-30b-a3b/910b/)。
-   该基准提供本文使用的参考 token 能力：Qwen3-30B-A3B 在 `128 input tokens` 和 `4 output tokens` 配置下达到 `15,040.15 total tokens/s`。
+   该基准提供本文使用的参考 token 能力：优化后的 Medium Prompt 场景下，Qwen3-30B-A3B 在 `2,000 input tokens` 和 `100 output tokens` 配置下达到 `15,591.71 total tokens/s`，`Mean TPOT = 194.54 ms`。TPOT 数值仅作为基准背景引用，不进入资源公式。
 
 7. [vLLM Ascend documentation](https://docs.vllm.ai/projects/ascend/en/v0.18.0/)。
    该文档提供在 Ascend 上通过 vLLM Ascend 服务 Qwen3 系列模型的实现背景，支撑本文对配置 NPU 集群和张量并行服务的假设。
